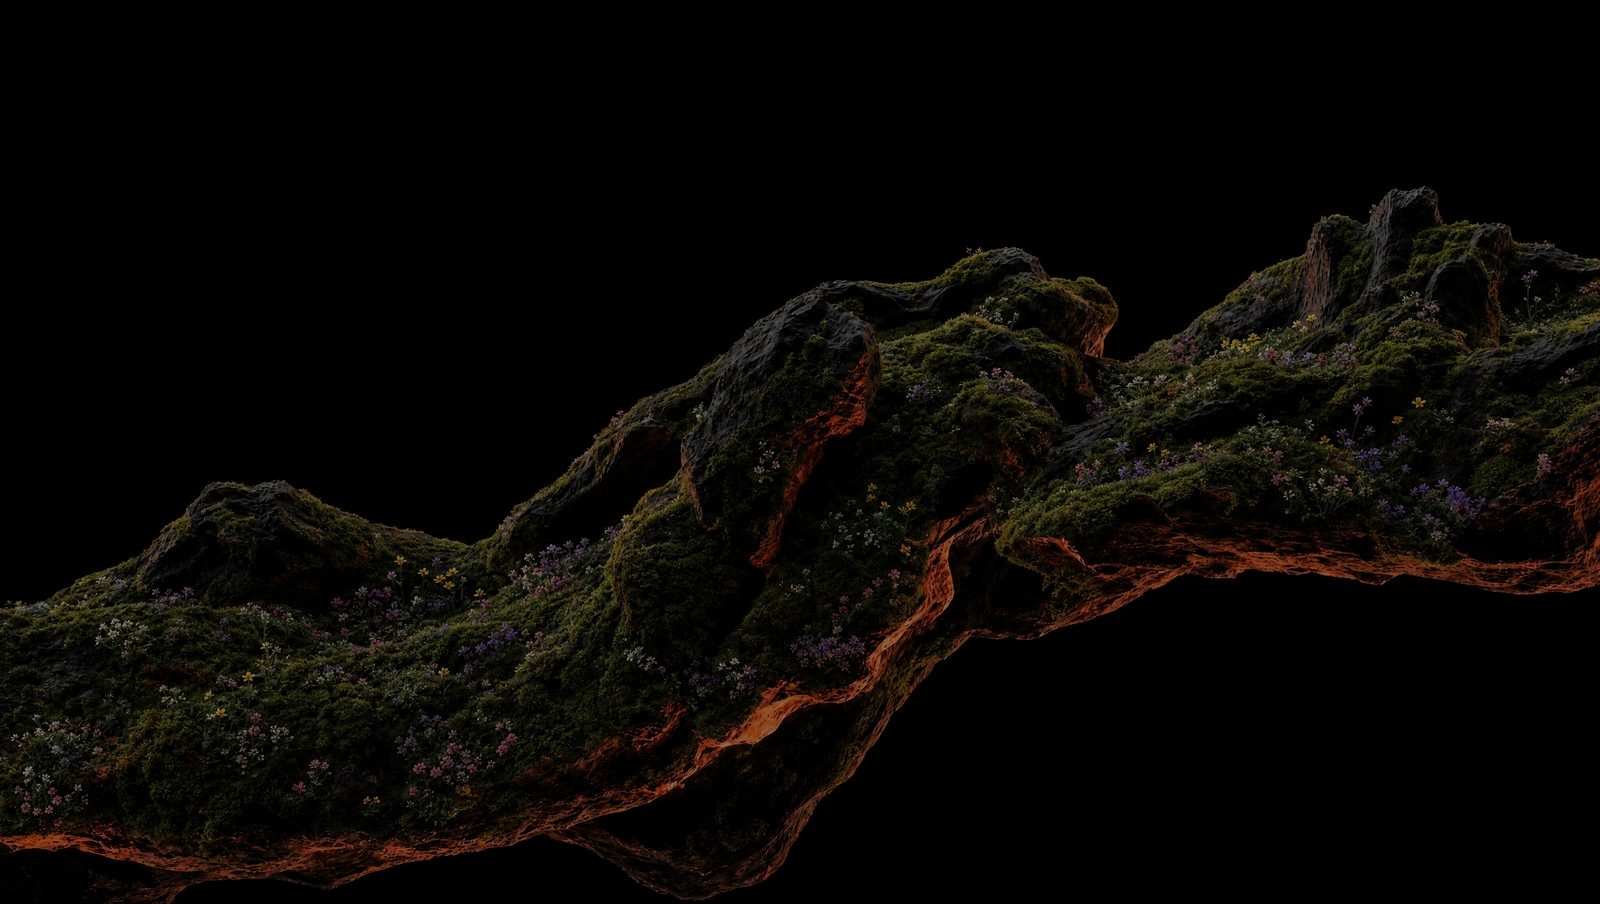
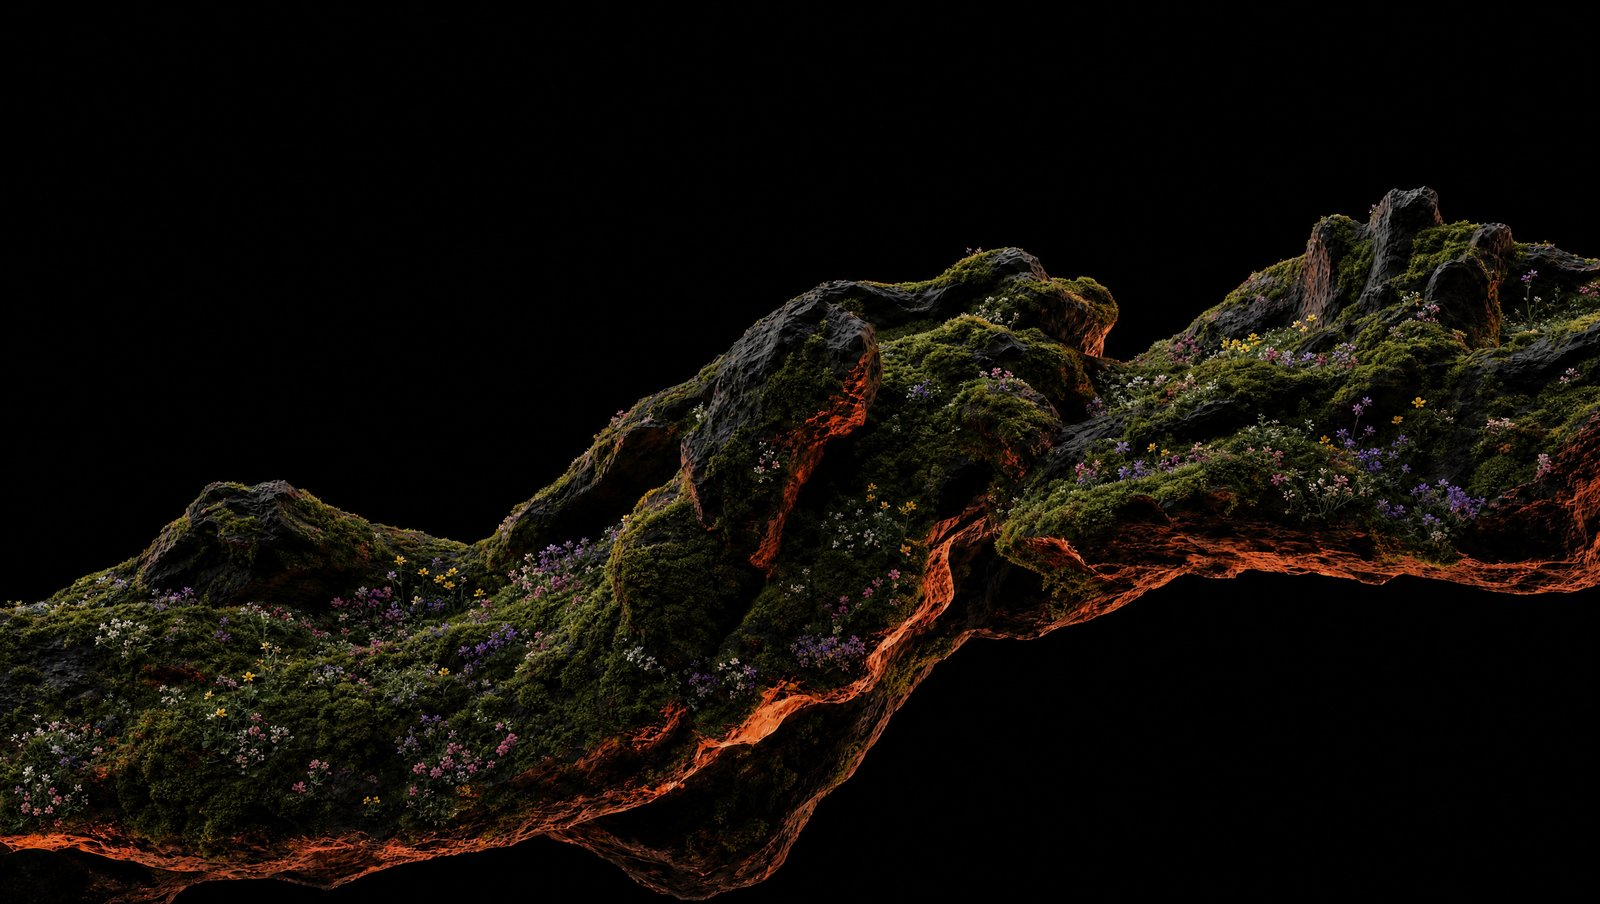
fix: 恢复地层背景清晰度（亮度90%），深色遮罩减半让地形可见

diff --git a/intro/css/style.css b/intro/css/style.css
@@ -47,7 +47,7 @@
   --bg: rgba(8, 14, 24, 0.62);
   --bg-soft: rgba(12, 22, 36, 0.6);
   --surface: rgba(13, 24, 40, 0.82);
-  --bg-veil: rgba(5, 10, 18, 0.68);
+  --bg-veil: rgba(4, 8, 15, 0.38);
   --text: #E8F1FA;
   --text-soft: #C2D6EA;
   --muted: #8FA6BC;
